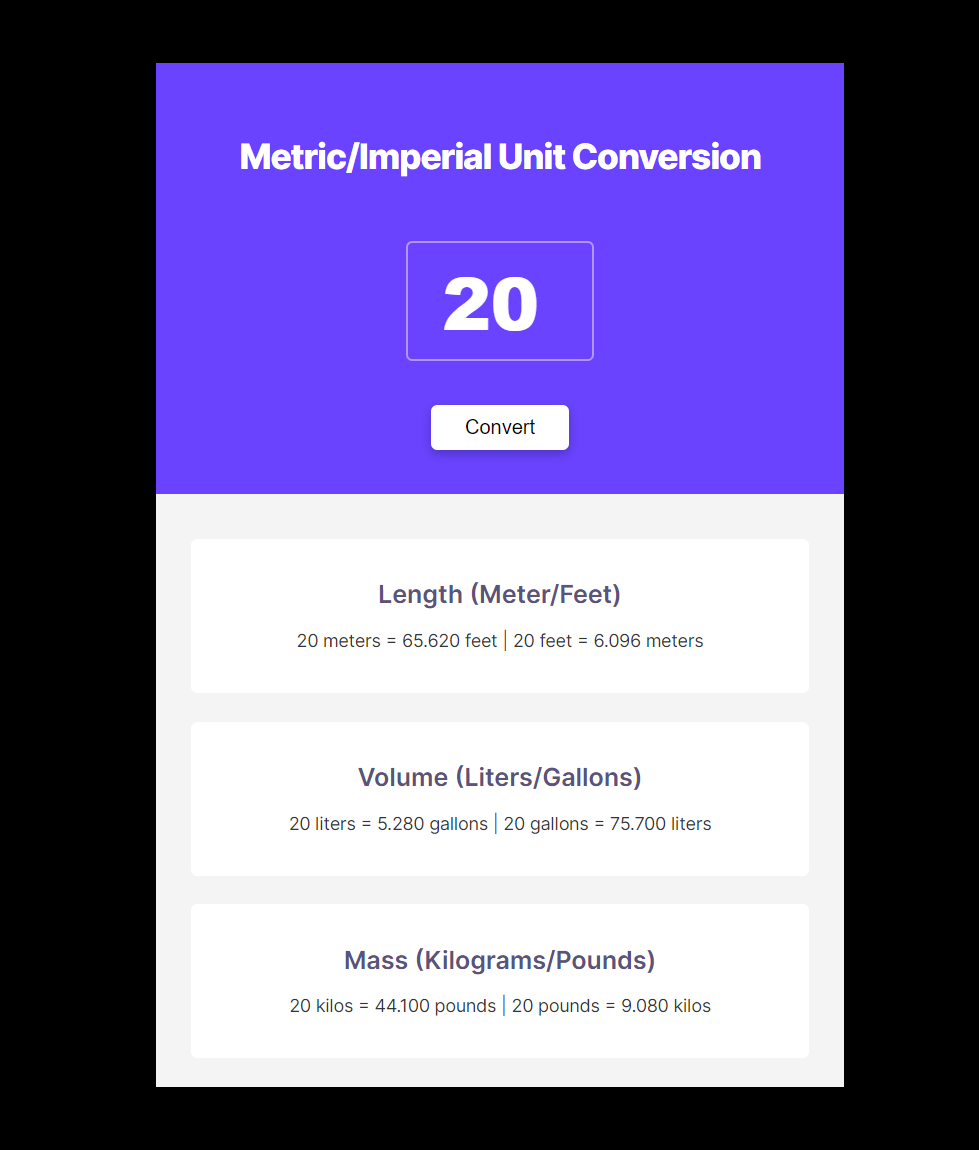
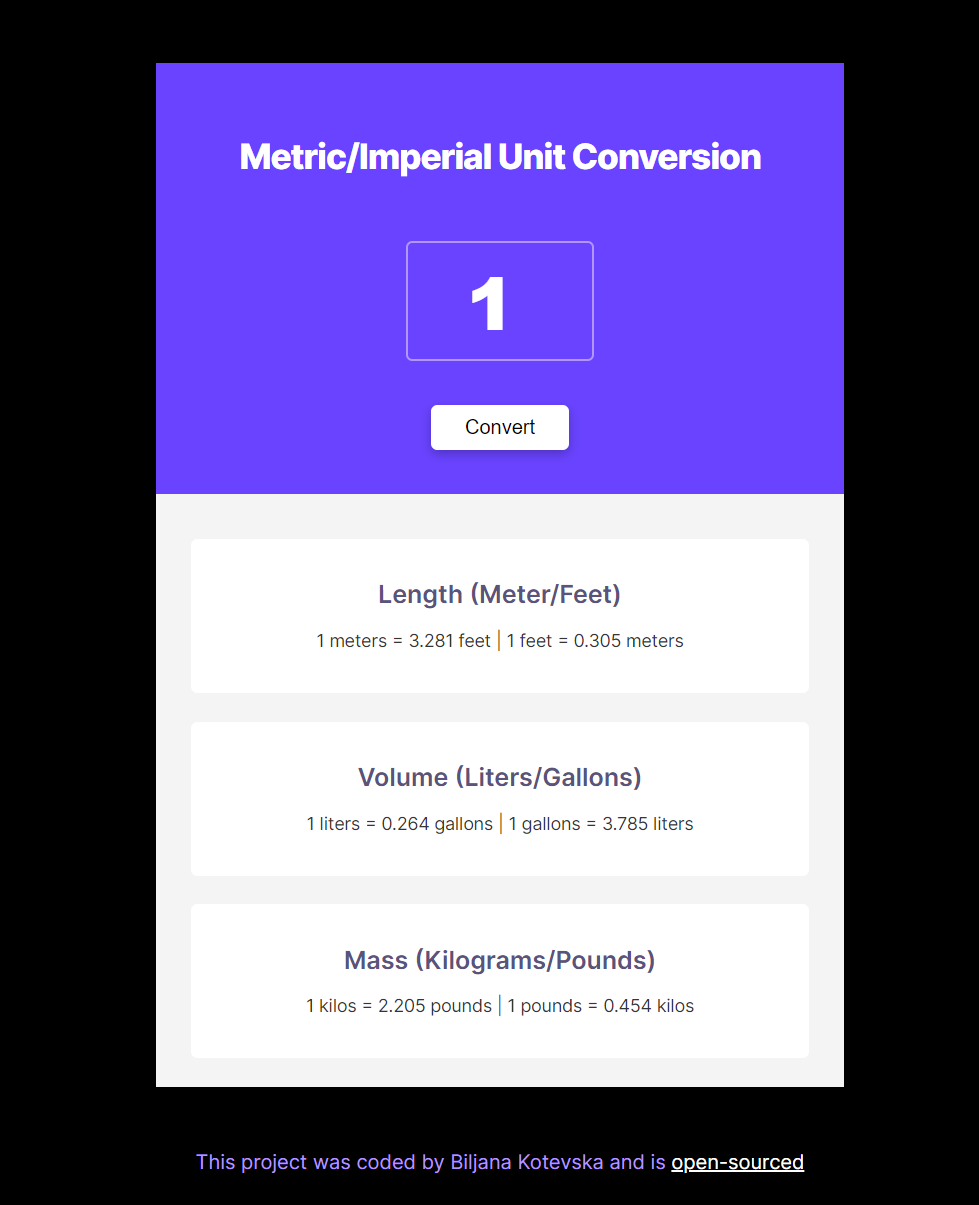
added function name to call it so content shows at start

diff --git a/src/index.js b/src/index.js
@@ -13,7 +13,9 @@ const lengthMeasurement = document.querySelector("#length-measurement");
 const volumeMeasurement = document.querySelector("#volume-measurement");
 const massMeasurement = document.querySelector("#mass-measurement");
 
-convertBtn.addEventListener("click", function () {
+convertBtn.addEventListener("click", valueConversion);
+
+function valueConversion() {
   let inputValue = inputUnit.value;
   const meterToFeetConversion = inputValue * meterToFeet;
   const feetToMeterConversion = inputValue * feetToMeter;
@@ -27,5 +29,6 @@ convertBtn.addEventListener("click", function () {
   volumeMeasurement.innerHTML = `${inputValue} liters = ${literToGallonConversion.toFixed(3)} gallons | ${inputValue} gallons = ${gallonToLiterConversion.toFixed(3)} liters`;
 
   massMeasurement.innerHTML = `${inputValue} kilos = ${kiloToPoundConversion.toFixed(3)} pounds | ${inputValue} pounds = ${poundToKiloConversion.toFixed(3)} kilos`;
-});
+}
 
+valueConversion();
